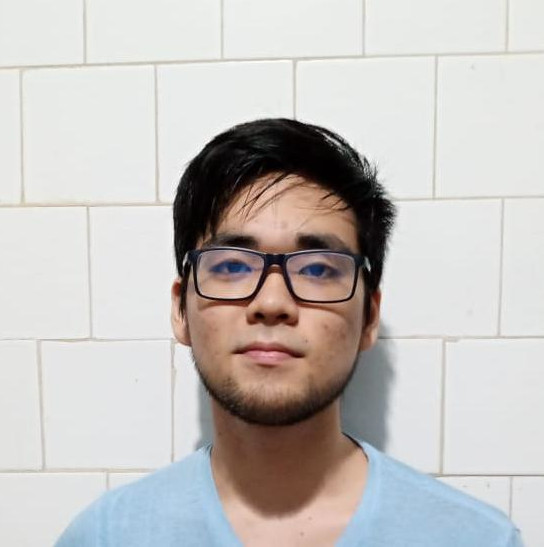
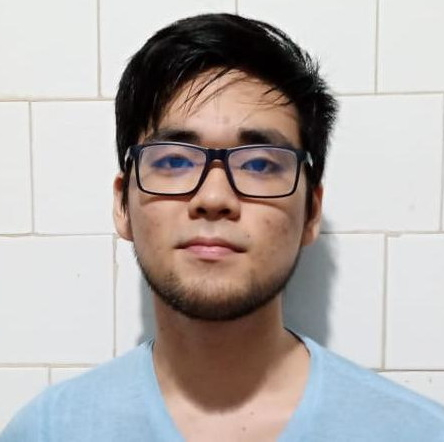
ajustes no carrossel do time

diff --git a/index.html b/index.html
@@ -229,10 +229,10 @@
         </div>
 
         <!-- nosso time -->
-        <section class="display-team display-padrao">
+        <section class="display-team">
             <h4>Nosso time</h4>
             <h2>
-                Conheça Nosso Time<br>#HardNaBrain
+                Conheça Nosso Time <span>#HardNaBrain</span> 
             </h2>
             <p>Lorem ipsum dolor sit amet consectetur adipisicing elit. Odit voluptatem quam eum ea fugiat. Corrupti
                 voluptatum exercitationem totam earum provident.
@@ -269,8 +269,8 @@
                     <!--Ângelo-->
                     <li class="item-a"> 
                         <div class="card-team"> 
-                            <img src="./img/angelo.jpg" alt="Foto de perfil Ângelo" srcset="">
-                            <h3>Ângelo</h3>
+                            <img src="./img/angelo.jpg" alt="Foto de perfil Angelo Ricardo" srcset="">
+                            <h3>Angelo Ricardo</h3>
                             <p>Gerente de Projetos</p>
                             <div class="card-links">
                                 <a href="https://www.facebook.com/brainstormengenharia/" target="_blank" rel="noopener noreferrer">

diff --git a/css/style.css b/css/style.css
@@ -346,6 +346,17 @@ header :is(nav, ul, li) {
 
 .display-team {
     margin-top: 50px;
+    min-width: var(--minWidth);
+    max-width: 800px;
+    justify-content: center;
+
+}
+
+.display-team>p{
+    margin: 10px 0;
+}
+.display-team>h2>span{
+    color: var(--principal);
 }
 
 .container-cards{
@@ -363,7 +374,7 @@ header :is(nav, ul, li) {
     background: #EEF2D9;
     border-radius: 8px;
     margin: 20px;
-    box-shadow: 0 15px 35px rgba(211, 133, 169, 0.521);
+    box-shadow: 0 2px 5px rgba(211, 133, 169, 0.521);
    display: flex;
    justify-content: center;
    align-items: center;
@@ -752,4 +763,11 @@ footer {
         background: var(--secundaria);
         color: #fff;
     }
+    .card-links{
+        display: flex;
+        max-width: 100px;
+        justify-content: center;
+    }
 }
+
+/* cards team */
